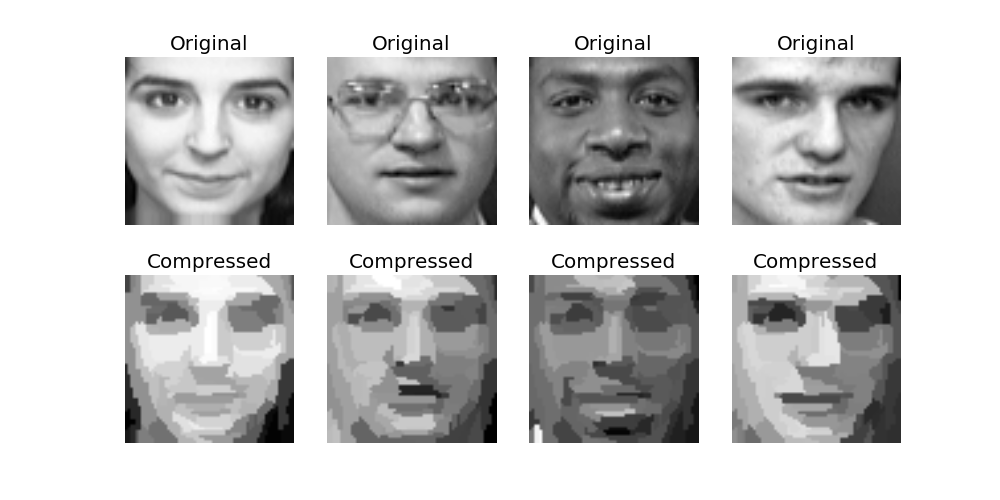
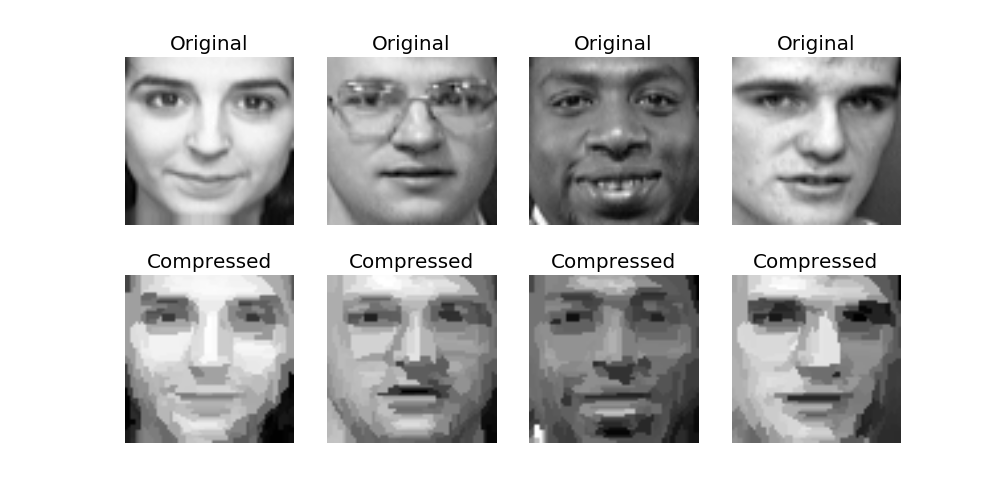
faces, now using 250 clusters

diff --git a/example_faces.py b/example_faces.py
@@ -39,7 +39,7 @@ from nilearn.input_data import NiftiMasker
 masker = NiftiMasker(mask_img=mask_img, standardize=False).fit()
 
 from rena import ReNA
-cluster = ReNA(scaling=True, n_clusters=100, masker=masker)
+cluster = ReNA(scaling=True, n_clusters=250, masker=masker)
 
 
 X_clustered = cluster.fit_transform(X)

diff --git a/README.md b/README.md
@@ -18,6 +18,7 @@ ReNA is a fast clustering for approximation of structured signals.
 
 ### Clustering images of faces
 
+Compression of face images from the Olivetti Faces Dataset using 250 clusters.
 
 ```python
 python example_faces.py
